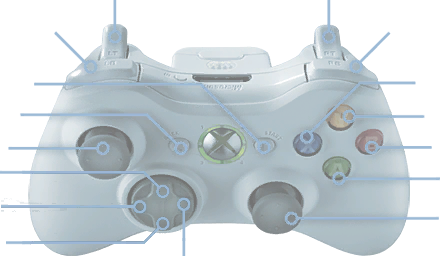
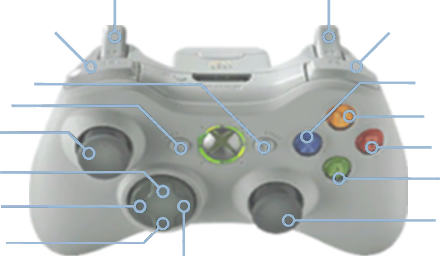
Replaced image, fixed labels, more h3 presets

diff --git a/css/settings.css b/css/settings.css
@@ -24,32 +24,32 @@ label { float: left; }
 #closeButton{ font-weight: bold; position: absolute; top: 6px; right: 6px; z-index: 10; width: 26px; height: 24px; color: white; border: 1px solid white; background-color: black; font-size: 13pt;}
 #settingsWindow{ position: absolute; right: 33.5%; top: 40%;  font-size: 18pt;}
 .setting { float: right; right: 0; position: absolute; height: 22px; margin-right: 20px; width: 250px; margin-top: 2px; font-size: 13pt; !important}
-#controllerSettings { display: none; position: relative; color: black; font-size: 15pt; font-weight: bold; background-color: #14234a; color: white; width: 1170px; height: 360px; opacity: 0.8; padding: 10px; padding-top: 60px;}
-#controllerHeader{ position: absolute; top: 0px; left: 0px; width: 1170px; height: 31px; background-color: black; color: white; padding-left: 20px; padding-top: 8px;}
+#controllerSettings { display: none; position: relative; color: black; font-size: 15pt; font-weight: bold; background-color: #14234a; color: white; width: 1180px; height: 360px; opacity: 0.8; padding: 10px; padding-top: 60px;}
+#controllerHeader{ position: absolute; top: 0px; left: 0px; width: 1180px; height: 31px; background-color: black; color: white; padding-left: 20px; padding-top: 8px;}
 #presets { float: right; margin-right: 250px; margin-top: -3px; }
 #presetMenu { margin-top: 3px; margin-left: 10px; width: 380px;}
 #controls { margin-left: 10px; border: 1px solid white; position: relative; float: left; padding: 10px; width: 200px; }
 #controls select { float: right;}
 #controllerGraphic { position: relative; float:right; right: 250px; top: 50px; }
-#controllerGraphic div { position: absolute; width: 350px; height: 32px; line-height: 16px; z-index: -1;}
+#controllerGraphic div { position: absolute; width: 250px; height: 32px; line-height: 16px; z-index: -1;}
 #controllerPic { position: relative; top: 5px; left; -50px; }
-#A { left: 445px; top: 171px;}
-#B { left: 437px; top: 140px;}
-#X { left: 420px; top: 75px;}
-#Y { left: 428px; top: 108px;}
-#RS { left: 443px; top: 211px;}
+#A { left: 443px; top: 177px;}
+#B { left: 435px; top: 144px;}
+#X { left: 420px; top: 78px;}
+#Y { left: 428px; top: 111px;}
+#RS { left: 441px; top: 216px;}
 #RB { left: 395px; top: 22px;}
-#RT { left: 322px; top: -18px; vertical-align: text-bottom;}
-#LT { right: 321px; top: -18px; text-align: right; vertical-align: text-bottom;}
+#RT { left: 324px; top: -30px;}
+#LT { right: 321px; top: -30px; text-align: right}
 #LB { right: 390px; top: 22px; text-align: right;}
-#Start { right: 411px; top: 76px; text-align: right;}
-#Back { right: 424px; top: 107px; text-align: right;}
-#LS { right: 438px; top: 140px; text-align: right;}
-#Left { right: 445px; top: 198px; text-align: right;}
+#Start { right: 411px; top: 78px; text-align: right; height: 20px !important;}
+#Back { right: 434px; top: 101px; text-align: right; height: 20px !important;}
+#LS { right: 443px; top: 127px; text-align: right;}
+#Left { right: 444px; top: 202px; text-align: right;}
 #Right { left: 180px; top: 263px;}
-#Up { right: 445px; top: 165px; text-align: right;}
-#Down { right: 438px; top: 235px; text-align: right;}
-#extendedControls { display: none; position: absolute; top: 430px; width: 1190px; left: 0px; height: 220px; background-color: #14234a;}
+#Up { right: 444px; top: 167px; text-align: right;}
+#Down { right: 438px; top: 237px; text-align: right;}
+#extendedControls { display: none; position: absolute; top: 430px; width: 1200px; left: 0px; height: 220px; background-color: #14234a;}
 #extendedControls label {float: left;}
 #extendedControls select {float: right;}
 #expandCollapse { position: absolute; bottom: -10px; left: 550px; border: 1px solid black; background-color: #14234a; color: white; width:50px; height; 30px;}

diff --git a/index.html b/index.html
@@ -150,6 +150,11 @@
 <div id="presets"><label for="presetMenu">Presets:</label><select id="presetMenu" onchange="applyPreset(this.value);">
     <option value="LS,A,X,RB,LB,RT,LT,RB,LB,RS,Y,B,LT,Right,,,LT,A,X,RT,LT,B,Start,Back,Y,,">Halo Online Default</option>
     <option value="X,A,LS,RB,LB,RT,LT,RB,LB,RS,Y,B,LT,LB,,,LT,A,LS,RT,LT,B,Start,Back,Y,,">Halo 3 Default</option>
+    <option value="X,A,LS,RB,LB,LT,RT,RB,LB,RS,Y,B,RT,LB,,,RT,A,LS,LT,RT,B,Start,Back,Y,,">Halo 3 Southpaw</option>
+    <option value="X,A,LS,RB,LB,RT,LT,RB,LB,RS,Y,LT,B,LB,,,LT,A,LS,RT,LT,B,Start,Back,Y,,">Halo 3 Boxer</option>
+    <option value="X,A,LS,RB,LB,RT,LT,RB,LB,B,Y,RS,LT,LB,,,LT,A,LS,RT,LT,B,Start,Back,Y,,">Halo 3 Green Thumb</option>
+    <option value="X,LB,LS,B,A,RT,LT,B,A,RS,Y,RB,LT,A,,,LT,A,LS,RT,LT,B,Start,Back,Y,,">Halo 3 Bumper Jumper</option>
+    <option value="Up,A,LS,B,X,RT,LT,B,X,RS,Y,RB,LT,A,,,LT,A,LS,RT,LT,B,Start,Back,Y,,LB">Halo 3 Walkie Talkie</option>
     <option value="B,A,LS,X,LB,RT,LT,X,LB,RS,Y,LT,RB,LB,,,LT,A,LS,RT,LT,B,Start,Back,Y,,">Halo 5 Boxer</option>
 </select><br /></div>
     <div id="controls">
